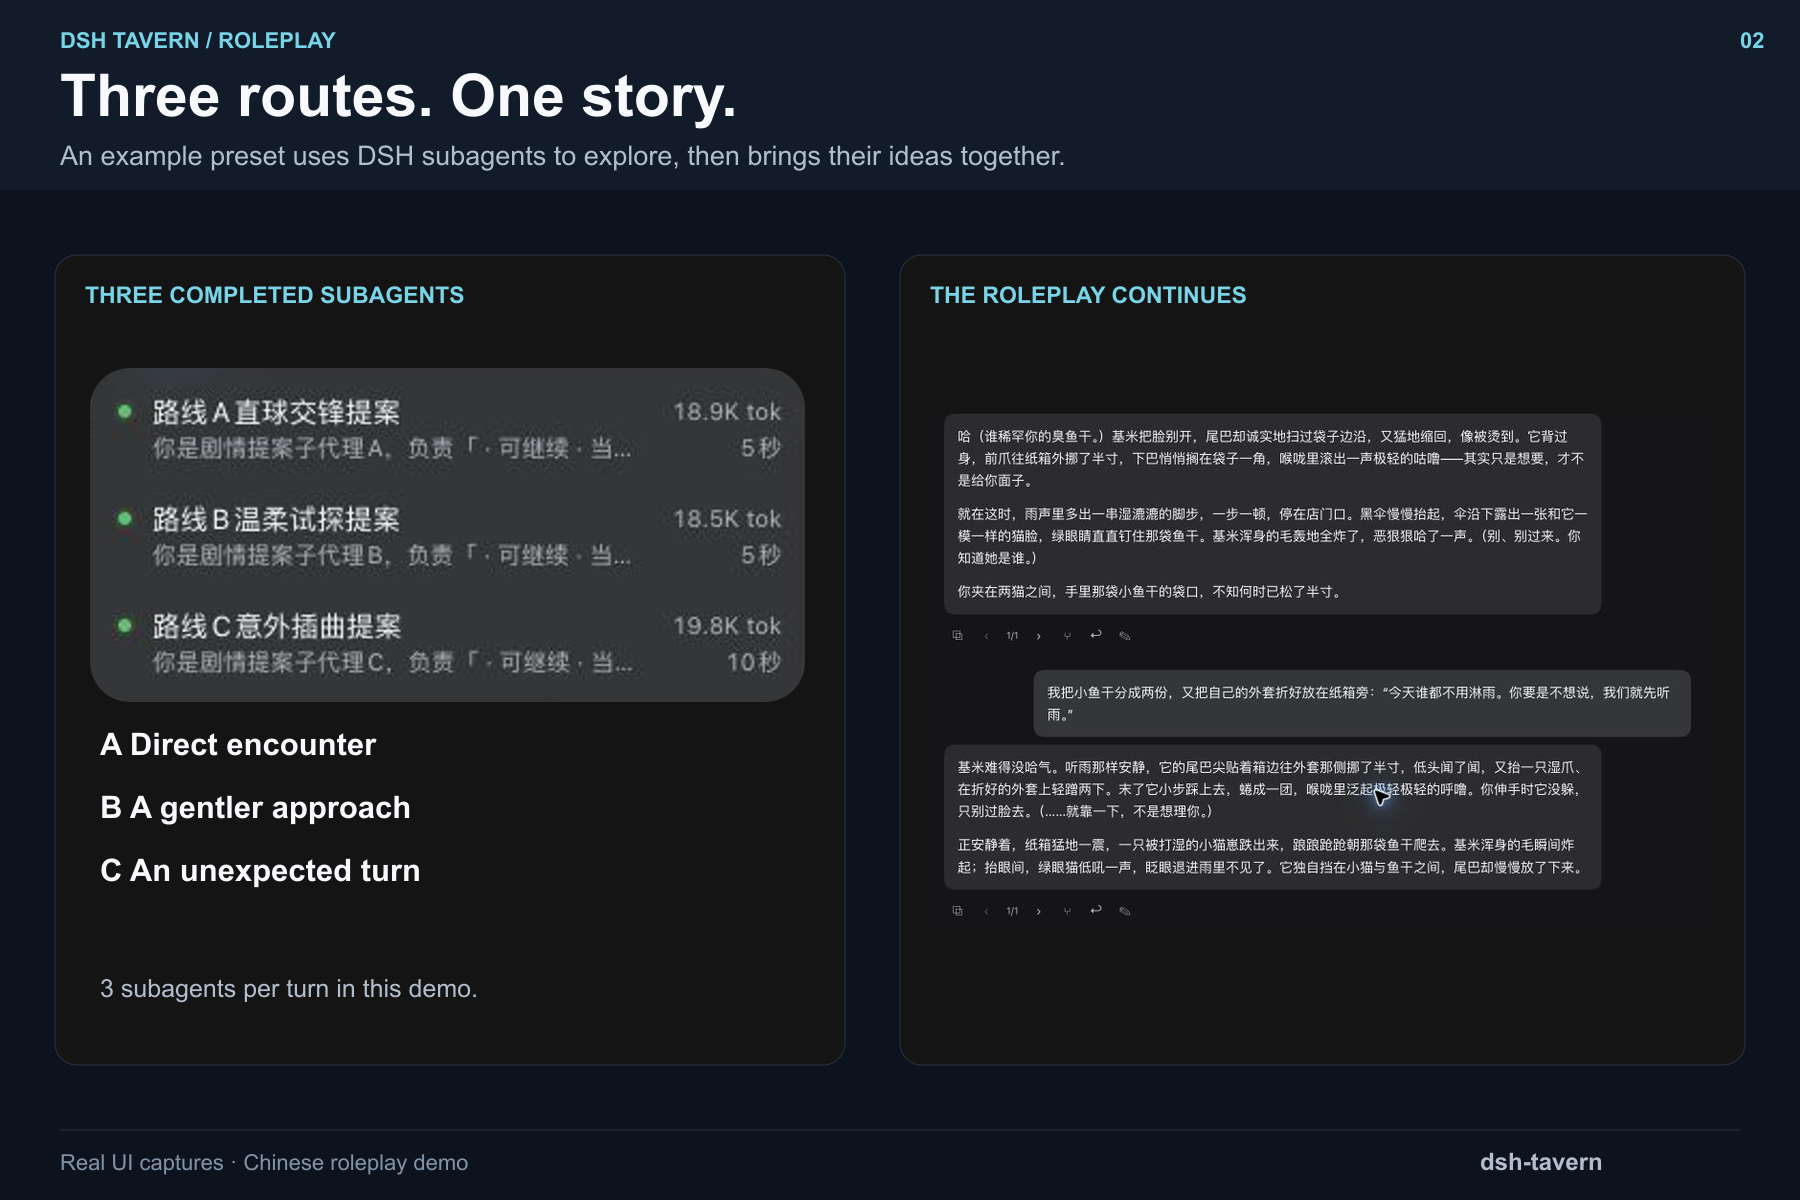
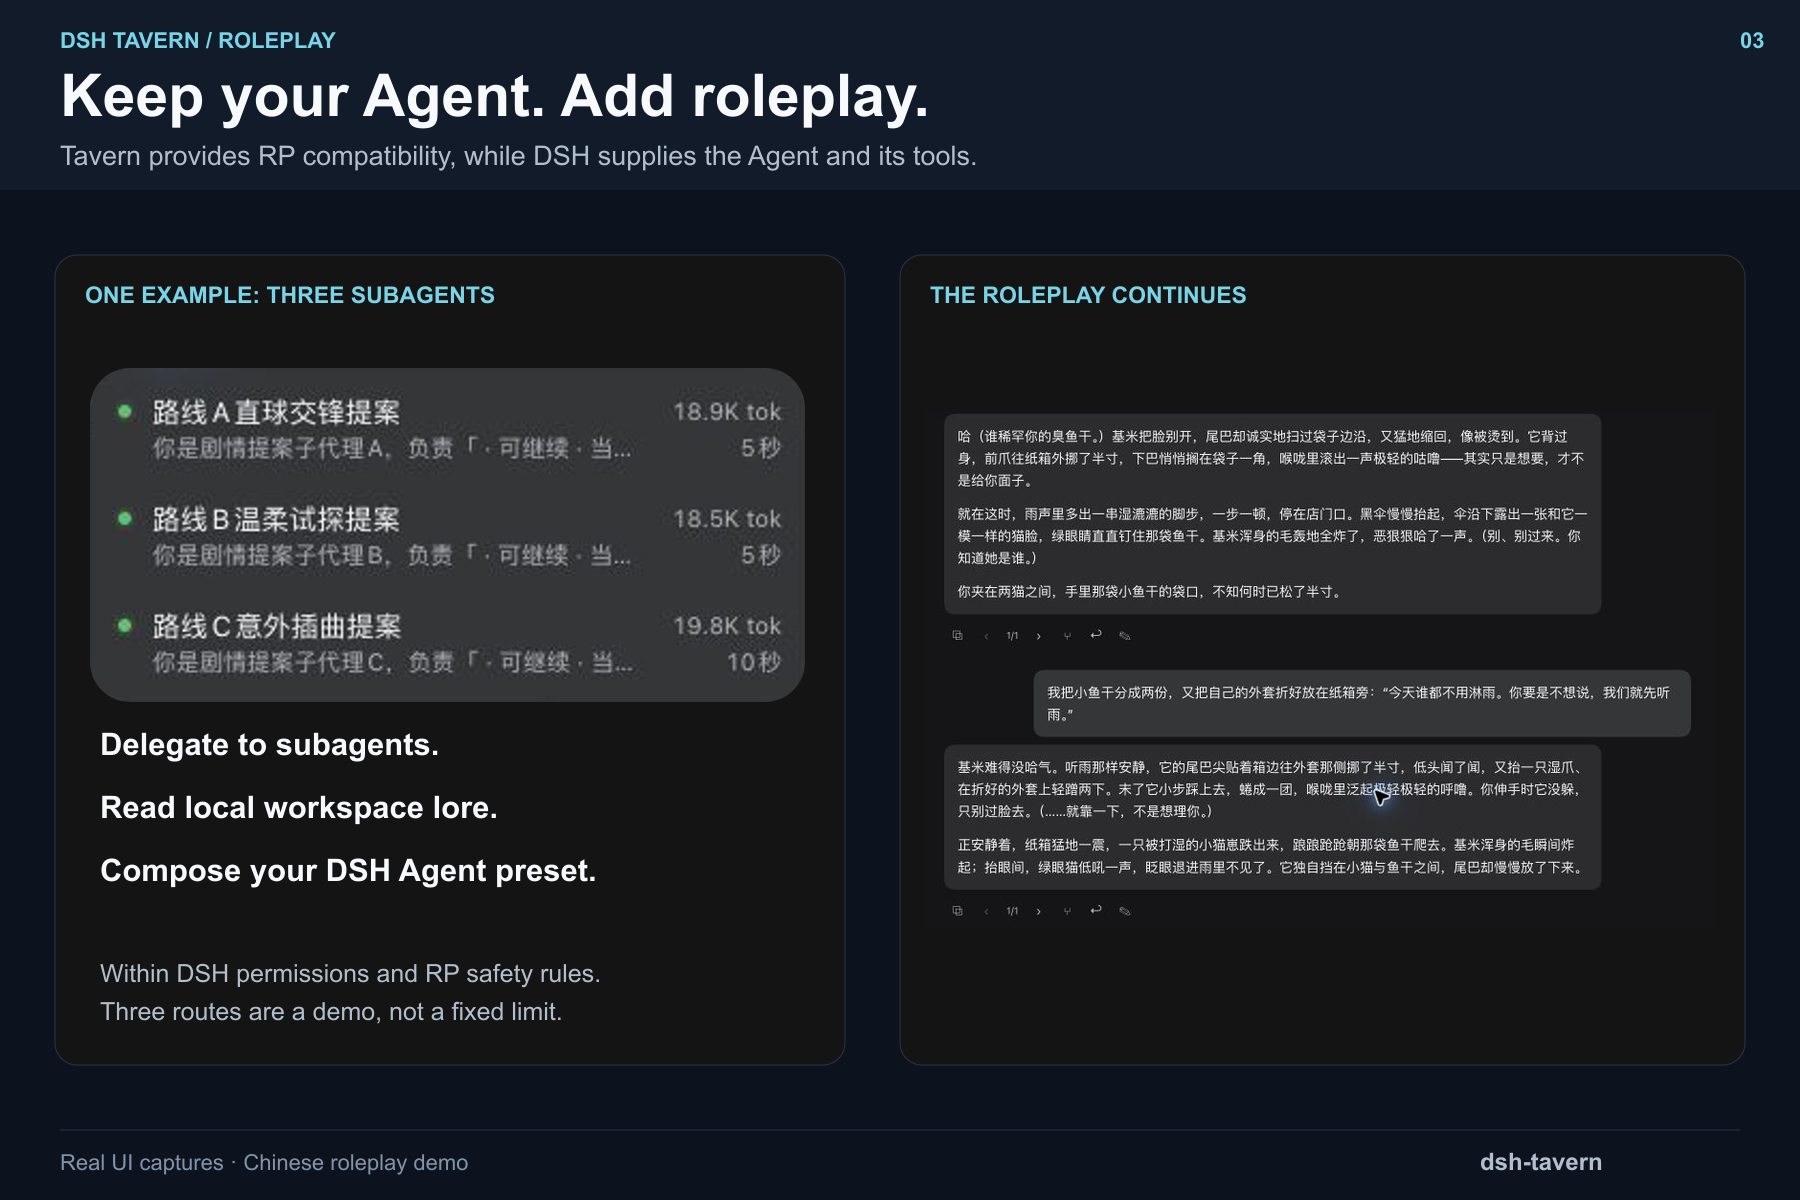
docs: illustrate swipe continuations and native agent capabilities

diff --git a/docs/assets/market/README.md b/docs/assets/market/README.md
@@ -1,26 +1,30 @@
 # Market screenshots
 
-Six submission-ready **1800 × 1200 (3:2) PNGs**, ordered in the repository's `screenshots.json`. They compose real UI captures of dsh-tavern at `7ebcfca`, using the Chinese-language 基米 character card. English headings explain the features while the UI and roleplay remain Chinese.
+Seven submission-ready **1800 × 1200 (3:2) PNGs**, ordered in the repository's `screenshots.json`. They compose real UI captures of dsh-tavern at `7ebcfca`, using the Chinese-language 基米 character card. English headings explain the features while the UI and roleplay remain Chinese.
 
-The order leads with the player experience, then demonstrates the configurable subagent workflow, session resources, presets, display filtering, and original DSH records. The subagent workflow is an example preset, not a mandatory or built-in three-agent mode.
+The order leads with the player experience and a button legend, then shows swipe-linked continuations, native Agent capabilities, session resources, presets, display filtering, and original DSH records. Tavern supplies an RP compatibility framework rather than replacing the DSH Agent preset. Subagents, local workspace reading, and Agent preset composition remain available within the applicable DSH permissions and RP safety rules. The three-subagent workflow is an example, not a mandatory mode or a fixed limit.
 
 The compositions use cropped, scaled screenshots with captions outside the UI. No dialogue or UI text has been rewritten in the images. The player message shown is natural roleplay, without an instruction to invoke a preset. Original captures are retained in `sources/`; those are not listed for Market submission.
 
 | Image | Shows |
 | --- | --- |
-| [Roleplay](01-roleplay.png) | Character dialogue and message controls |
-| [Three routes](02-three-routes.png) | Three completed subagents alongside the continuing story |
+| [Roleplay](01-roleplay.png) | Character dialogue with a legend for copy, swipe, generate, branch, rewind, and display editing |
+| [Swipe paths](07-swipe-paths.png) | An earlier reply and its corresponding saved continuation change together |
+| [Agent capabilities](02-three-routes.png) | Native DSH capabilities, with three completed subagents as one example |
 | [Session resources](03-session-resources.png) | Character and preset bound to the current session |
 | [Preset](04-preset.png) | A reusable narrative coordination prompt |
 | [Display regex](05-display-regex.png) | Rules and the resulting RP display side by side |
 | [Native history](06-native-history.png) | Native tool records and the same turn's RP dialogue side by side |
 
-The manifest uses six repository-relative paths, within the [Market screenshot requirements](https://github.com/awesome-dsh-plugin/awesome-dsh-plugin/blob/main/contributing.md#screenshots--截图optional-recommended--可选推荐). Push the assets and manifest together when publishing; a local commit alone does not make them available to Market.
+The manifest uses seven repository-relative paths, within the [Market screenshot requirements](https://github.com/awesome-dsh-plugin/awesome-dsh-plugin/blob/main/contributing.md#screenshots--截图optional-recommended--可选推荐). Push the assets and manifest together when publishing; a local commit alone does not make them available to Market.
+
+The swipe comparison uses assistant-reply excerpts from 基米's first playthrough: candidates `1/3` and `3/3`, plus their corresponding follow-ups. These are separate real screenshots of saved paths, not synthetic before/after text. The new follow-up on the third path completed after network connectivity recovered; switching back restored the first path's original follow-up. Existing-candidate switching does not regenerate later messages. The right arrow generates only when already at the final candidate; actions are disabled while the Agent is running. Button glyphs in the legend match the UI, and display editing does not change the model's original context.
 
 ## Gallery
 
 ![Character-driven roleplay](01-roleplay.png)
-![Three narrative routes](02-three-routes.png)
+![Swipe-linked continuations](07-swipe-paths.png)
+![Native Agent capabilities](02-three-routes.png)
 ![Session resources](03-session-resources.png)
 ![Reusable preset](04-preset.png)
 ![Display-only regex](05-display-regex.png)
